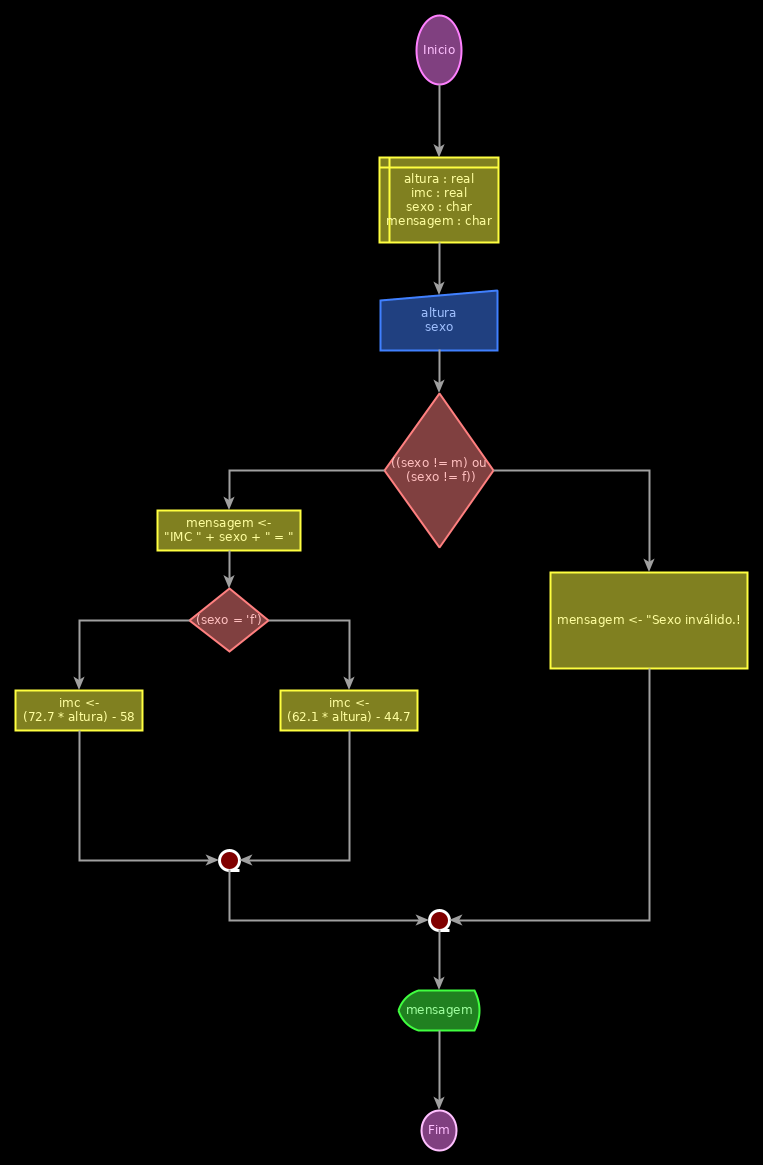
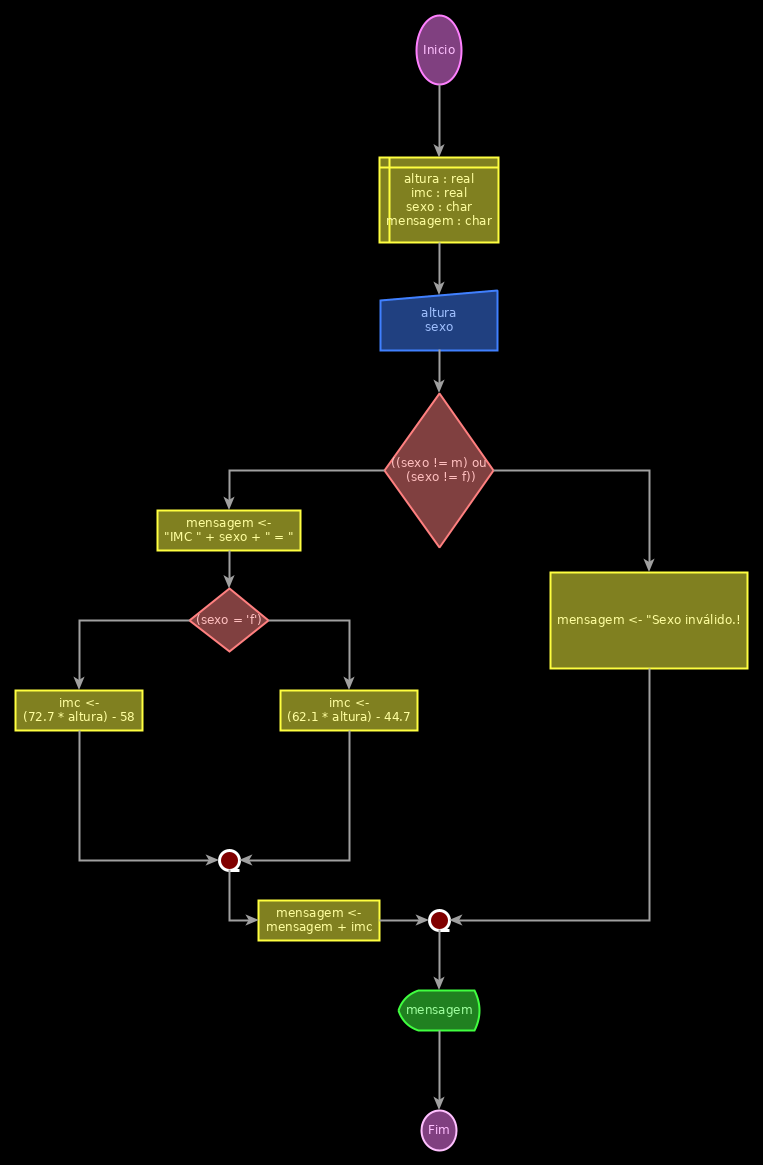
Algoritmo adicionado

Changed region(s): [[0.3316, 0.7725, 0.5125, 0.8343]]

diff --git a/CHANGELOG.md b/CHANGELOG.md
@@ -1,5 +1,9 @@
 # ChangeLog
 
+## 1.2.4.ALFA.1
+
+* Adicionado algoritmo calculraImc, fluxograma corrigido
+
 ## 1.2.4.ALFA.0
 
 * Adicionado fluxograma para novo algoritmo em ldP-CdAeEdD/Unidade3/CalcularImc
